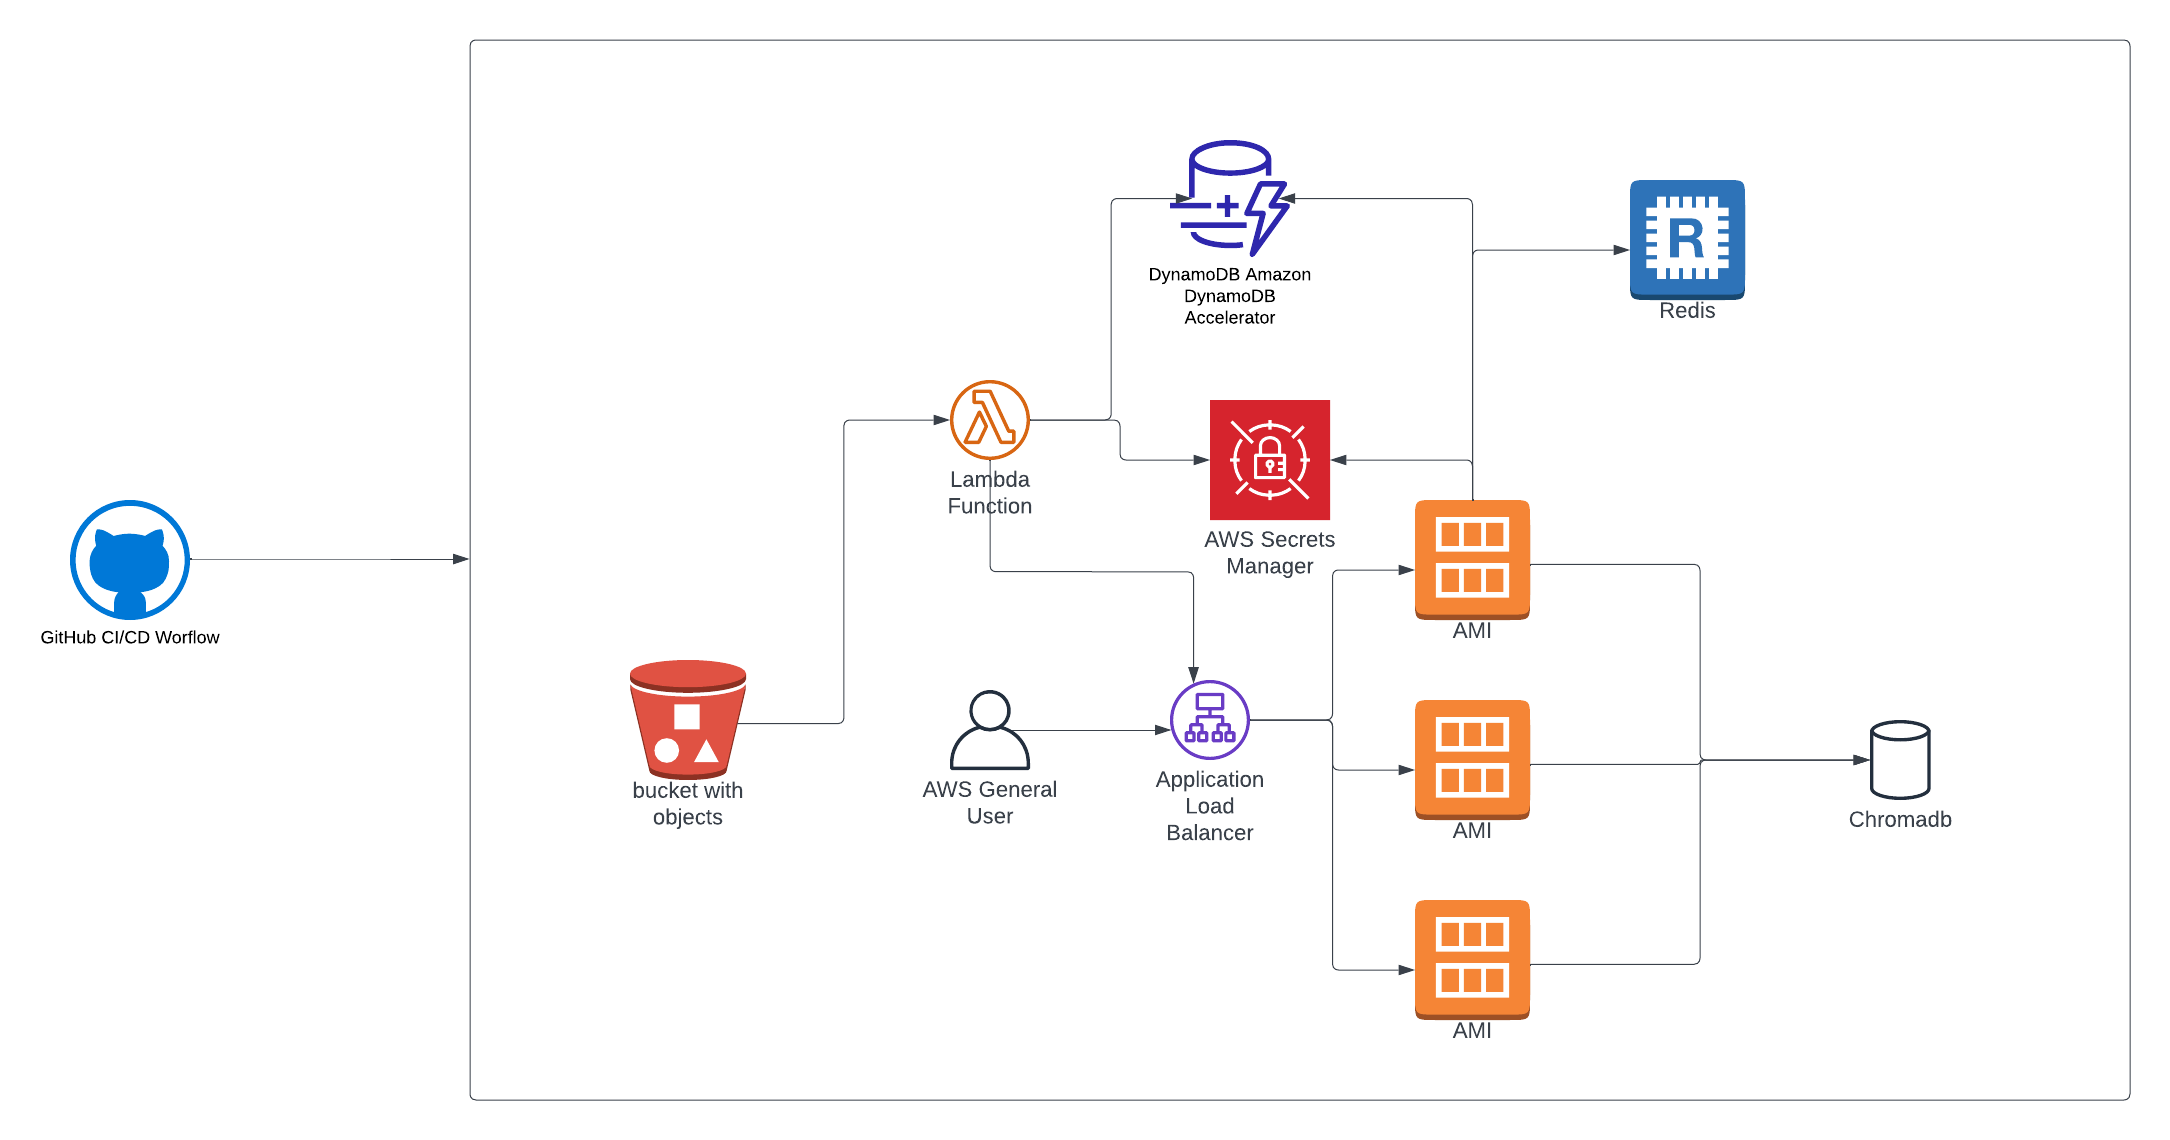
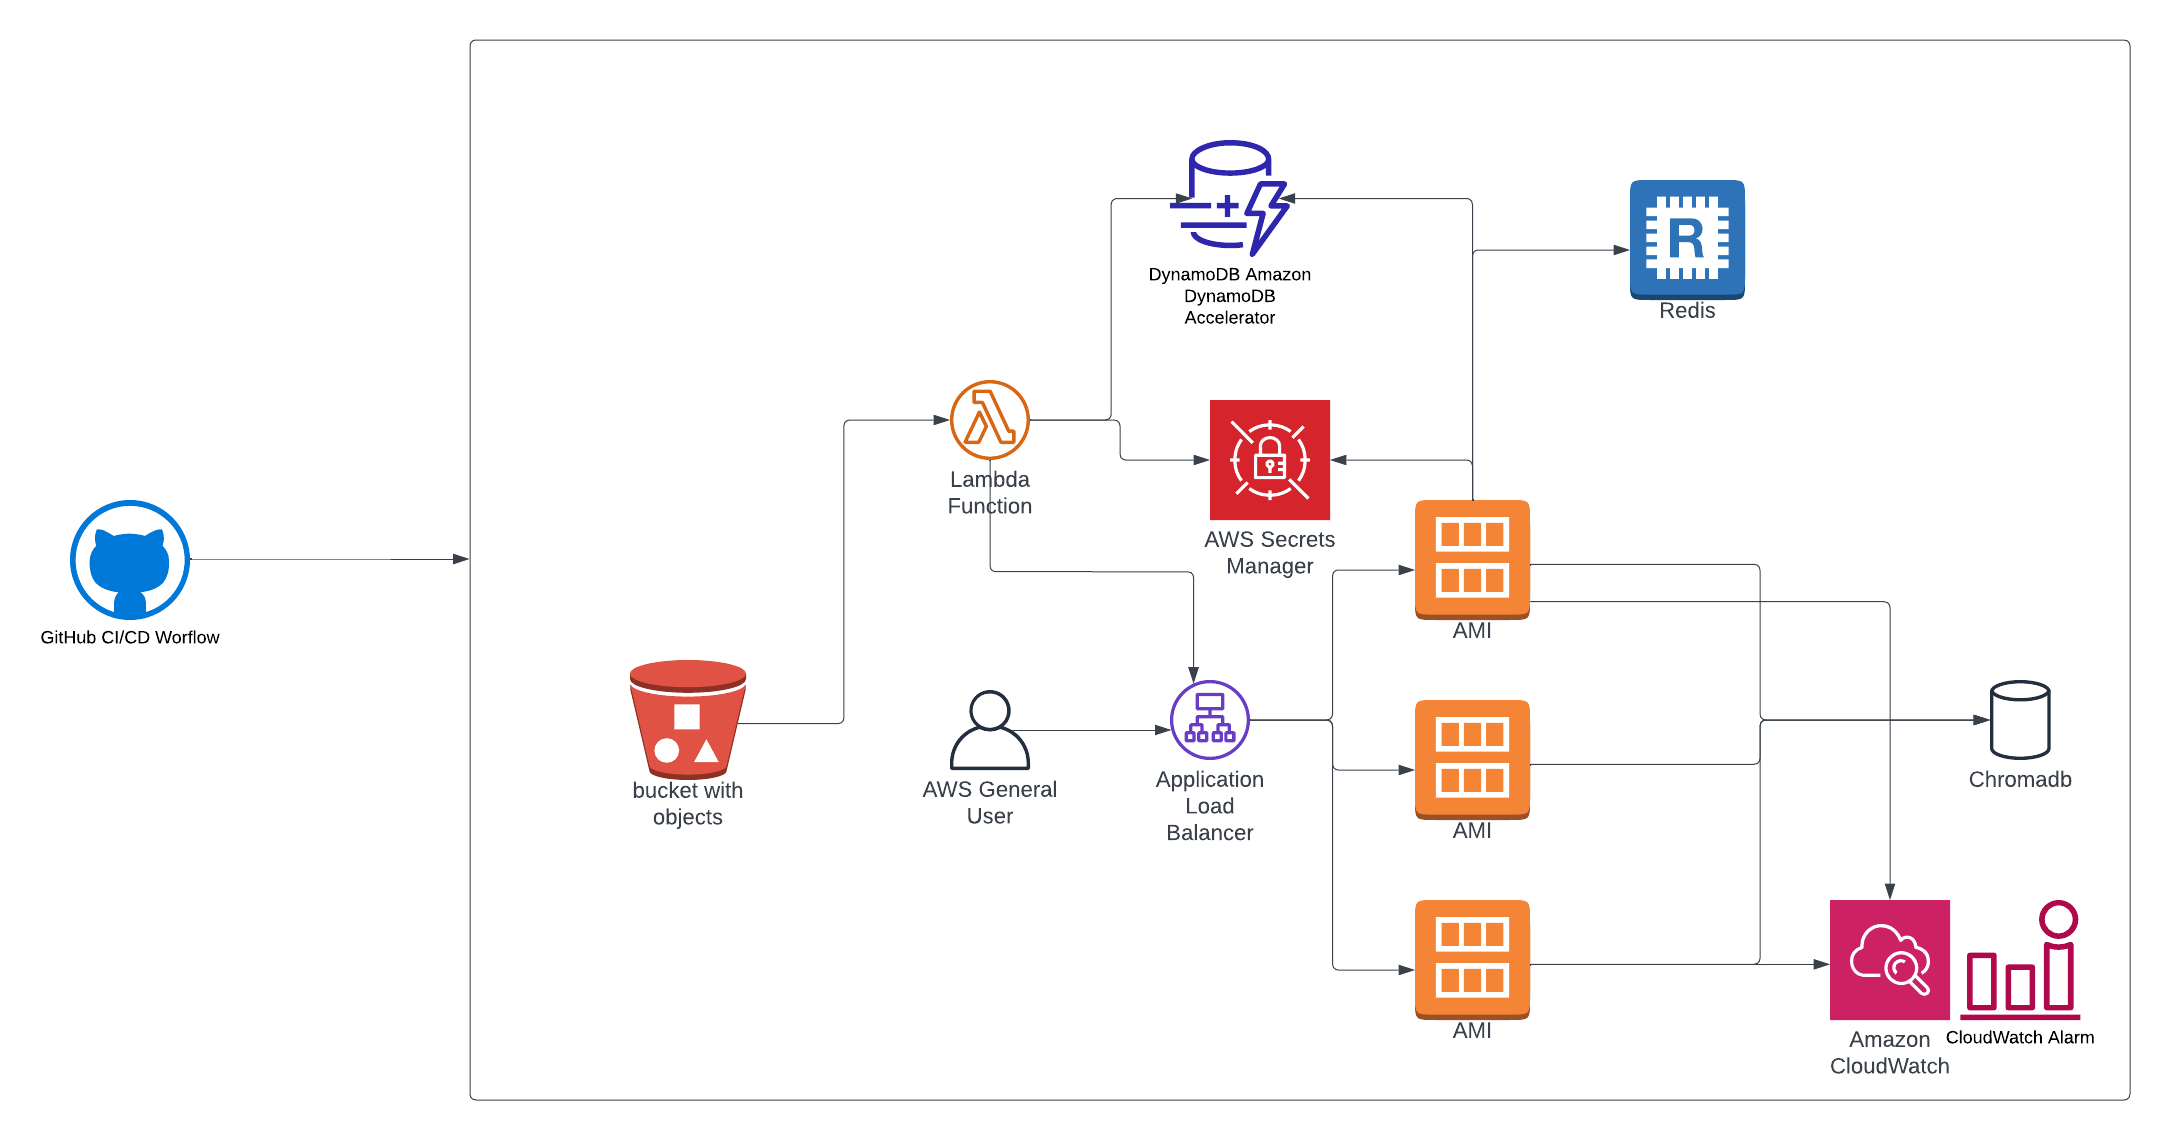
Added more logging

diff --git a/src/utils/db.py b/src/utils/db.py
@@ -54,6 +54,7 @@ async def index_data_in_db(data: QA) -> dict:
         )
 
         if response["Count"] > 0:
+            log_to_cloudwatch(f"Indexing Already Done for: {data}")
             return {"message": "Data already indexed", "status": "fail"}
 
         # If not, add to DynamoDB and index in ChromaDB
@@ -87,6 +88,7 @@ async def search_data_in_db(data: Question) -> dict:
         cached_result = await get_cache(data.question)
         if cached_result:
             # Deserialize the data from the JSON string
+            log_to_cloudwatch(f"Searching not done. Found cached result for query: {data.question}")
             data = json.loads(cached_result)
             return data
         log_to_cloudwatch(f"Searching with query: {data.question}")
